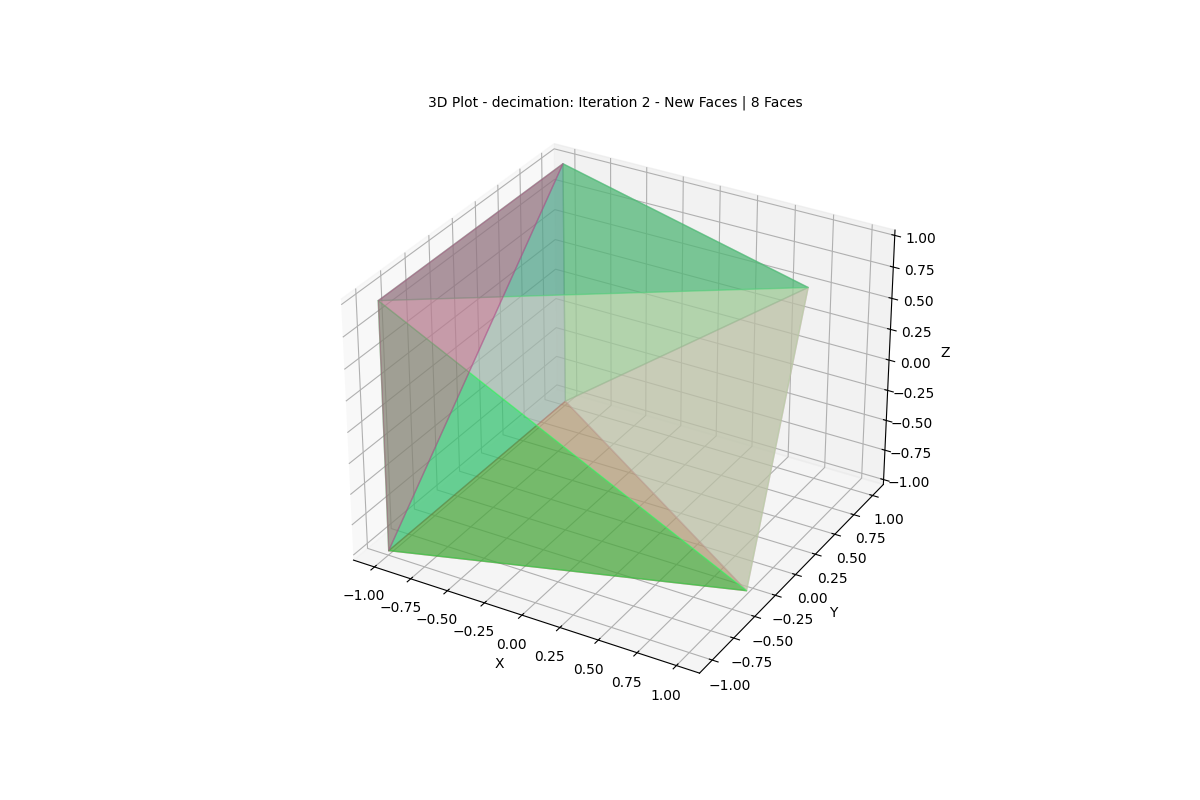
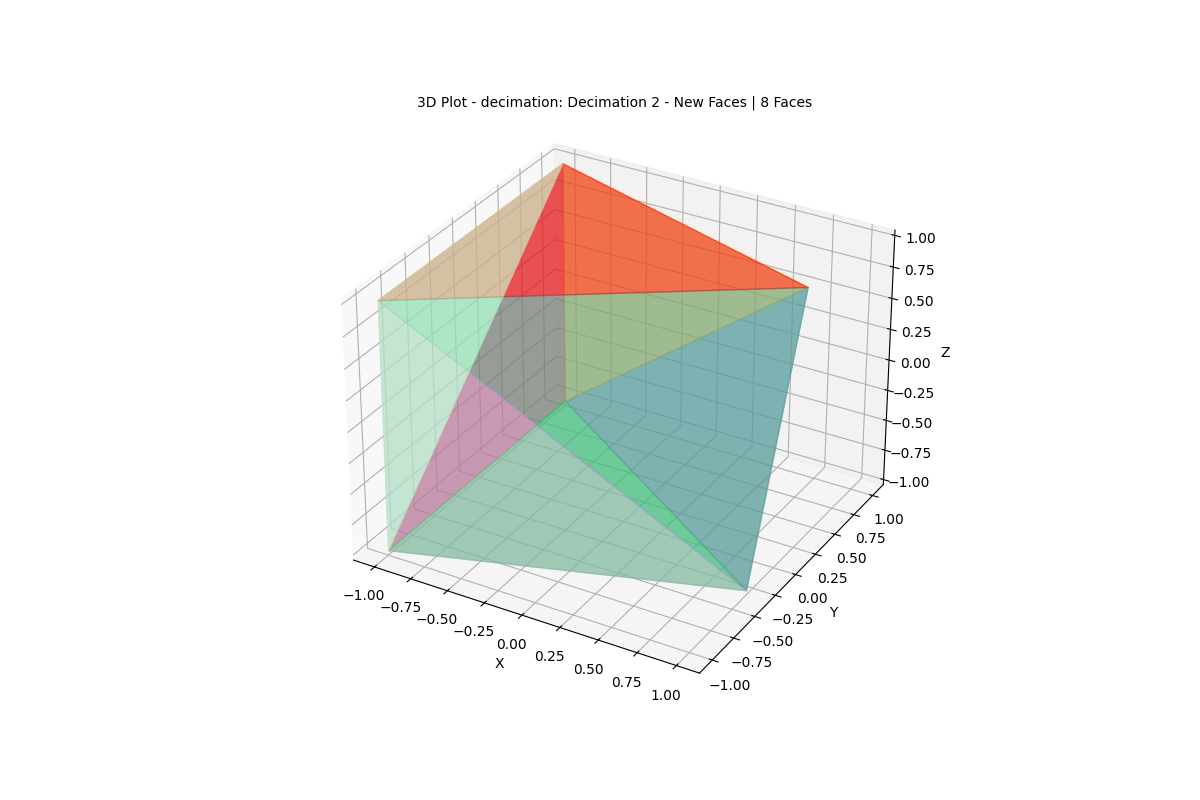
Refactored code and added extra credit item

Changed region(s): [[0.3083, 0.1875, 0.6783, 0.75], [0.3392, 0.125, 0.6783, 0.1562]]

diff --git a/src/remesh.py b/src/remesh.py
@@ -26,7 +26,6 @@ class Remesh:
     """
 
     __LOG_PREFIX__ = "Remesh()"
-    __VERBOSE__ = False
     __PLOT_EVERY__ = 1
     __EPSILON__ = 1e-13
     __PLOT_DIRECTORY__ = "../assets/plot/assignment1"
@@ -45,7 +44,7 @@ class Remesh:
         self.vertices = vertices
         self.faces = faces
 
-    def loop_subdivision(self, iterations: int = 1) -> Tuple[np.ndarray, np.ndarray]:
+    def loop_subdivision(self, iterations: int = 1, fixed: bool = False, verbose: bool = True) -> Tuple[np.ndarray, np.ndarray]:
         """
         Apply Loop subdivision to the input mesh for the specified number of iterations.
         Loop subdivision:
@@ -54,18 +53,20 @@ class Remesh:
         and apprxoimating thier positions to get a smoother surface.
         Input parameters:
             - iterations: number of iterations
+            - fixed: boolean indicating whether to keep the original vertices of the mesh fixed during mesh operations
+            - verbose: boolean indicating whether to make verbose
         Output:
             - vertices and faces after subdivision
         """
         logger.info(
             f"{self.__LOG_PREFIX__}: Applying Loop subdivision to the input mesh")
         new_vertices, new_faces = self._loop_subdivision(
-            vertices=self.vertices, faces=self.faces, iterations=iterations)
+            vertices=self.vertices, faces=self.faces, iterations=iterations, fixed=fixed, verbose=verbose)
         logger.info(
             f"{self.__LOG_PREFIX__}: Loop subdivision applied successfully")
         return new_vertices, new_faces
 
-    def decimation(self, faces: int = 3) -> Tuple[np.ndarray, np.ndarray]:
+    def decimation(self, faces: int = 3, fixed: bool = False, verbose: bool = True) -> Tuple[np.ndarray, np.ndarray]:
         """
         Apply decimation to the input mesh for the specified number of faces.
         Decimation:
@@ -74,13 +75,15 @@ class Remesh:
         Decimation is the process of reducing the number of faces in a mesh.
         Input parameters:
             - faces: number of faces
+            - fixed: boolean indicating whether to keep the original vertices of the mesh fixed during mesh operations
+            - verbose: boolean indicating whether to make verbose
         Output:
             - vertices and faces after decimation
         """
         logger.info(
             f"{self.__LOG_PREFIX__}: Applying decimation to the input mesh")
         new_vertices, new_faces = self._decimation(
-            vertices=self.vertices, faces=self.faces, reduce_faces_to=faces)
+            vertices=self.vertices, faces=self.faces, reduce_faces_to=faces, fixed=fixed, verbose=verbose)
         logger.info(f"{self.__LOG_PREFIX__}: Decimation applied successfully")
         return new_vertices, new_faces
 
@@ -393,6 +396,7 @@ class Remesh:
         incident_matrix, vertices_idx, k = get_incident_matrix(edges)
         # 2. Calculate beta
         # Formula: beta = (1/k) * (5/8 - (3/8 + 1/4 * cos(2 * pi / k)) ** 2)
+        k = np.maximum(k, Remesh.__EPSILON__) # to avoid division by zero, just in case
         beta = (1/k) * ((5/8) - ((3/8) + (1/4) * np.cos(2 * np.pi / k)) ** 2)
         # 3. Get neighbors of the vertices
         k_neighbors = incident_matrix * vertices_idx
@@ -466,7 +470,7 @@ class Remesh:
         return new_face
 
     @staticmethod
-    def _loop_subdivision(vertices: np.ndarray, faces: np.ndarray, iterations: int = 1) -> Tuple[np.ndarray, np.ndarray]:
+    def _loop_subdivision(vertices: np.ndarray, faces: np.ndarray, iterations: int = 1, fixed: bool = False, verbose: bool = True) -> Tuple[np.ndarray, np.ndarray]:
         """
         Driver code for implementing Loop Subdivision: apply Loop subdivision to the input mesh.
         The algorithm is implemented using matrix operations to improve performance by avoiding loops.
@@ -480,6 +484,8 @@ class Remesh:
             - vertices: numpy ndarray of vertices
             - faces: numpy ndarray of faces, note that the faces should be triangulated
             - iterations: number of iterations, default is 1
+            - fixed: boolean indicating whether to keep the original vertices of the mesh fixed during mesh operations
+            - verbose: boolean indicating whether to make verbose
         Output:
             - vertices and faces after subdivision
         """
@@ -521,7 +527,7 @@ class Remesh:
             # Note the order - required for the face generation
             new_vertices = np.vstack((even_vertices, odd_vertices))
             # Plot for visualization
-            if Remesh.__VERBOSE__ and run % Remesh.__PLOT_EVERY__ == 0:
+            if verbose and run % Remesh.__PLOT_EVERY__ == 0:
                 Remesh._plot(vertices, unique_edges, odd_vertices,
                              title=f"Loop Subdivision: Iteration {run+1} - Odd Vertices")
                 Remesh._plot(vertices, unique_edges, even_vertices,
@@ -764,7 +770,7 @@ class Remesh:
         return new_vertices, new_faces
 
     @staticmethod
-    def _decimation(vertices: np.ndarray, faces: np.ndarray, reduce_faces_to: int = 3) -> Tuple[np.ndarray, np.ndarray]:
+    def _decimation(vertices: np.ndarray, faces: np.ndarray, reduce_faces_to: int = 3, fixed: bool = False, verbose: bool = True) -> Tuple[np.ndarray, np.ndarray]:
         """
         Driver code for implementing decimation: apply decimation to the input mesh.
         The algorithm is implemented using matrix operations to improve performance by avoiding loops.
@@ -784,6 +790,8 @@ class Remesh:
             - vertices: numpy ndarray of vertices
             - faces: numpy ndarray of faces, note that the faces should be triangulated
             - reduce_faces_to: number of faces to reduce to, default is 3
+            - fixed: boolean indicating whether to keep the original vertices of the mesh fixed during mesh operations
+            - verbose: boolean indicating whether to make verbose
         Output:
             - vertices and faces after decimation
         """
@@ -823,7 +831,7 @@ class Remesh:
         new_vertices, new_faces = vertices.copy(), faces.copy()
         while len(faces_copy) > reduce_faces_to:
             logger.info(
-                f"{Remesh.__LOG_PREFIX__}: Applying Decimation algorithm to the input mesh: Iteration {ctr+1} | {len(new_vertices)} Vertices | {len(new_faces)} Faces")
+                f"{Remesh.__LOG_PREFIX__}: Applying Decimation algorithm to the input mesh: Decimation {ctr+1} | {len(new_vertices)} Vertices | {len(new_faces)} Faces")
             # Validate triangle mesh
             if not validate_triangulated_mesh(edges_copy):
                 logger.error(
@@ -842,11 +850,12 @@ class Remesh:
             # Skip the deleted vertices
             if v1_idx in deleted_vertices or v2_idx in deleted_vertices:
                 continue
-            # Update vertices
-            vertices_copy[v1_idx-1] = v_dash # since, v1_idx is one indexed
-            # Update Q matrix
-            Q1, Q2 = q_matrix_copy[v1_idx-1], q_matrix_copy[v2_idx-1] # since, v1_idx, v2_idx are one indexed
-            q_matrix_copy[v1_idx-1] = Q1 + Q2
+            if not fixed:
+                # Update vertices
+                vertices_copy[v1_idx-1] = v_dash # since, v1_idx is one indexed
+                # Update Q matrix
+                Q1, Q2 = q_matrix_copy[v1_idx-1], q_matrix_copy[v2_idx-1] # since, v1_idx, v2_idx are one indexed
+                q_matrix_copy[v1_idx-1] = Q1 + Q2
             # Add the deleted vertex to the set
             deleted_vertices.add(v2_idx) # note that, v2_idx is one indexed
             # Update faces and edges
@@ -863,13 +872,13 @@ class Remesh:
             optimal_contractions = Remesh._get_optimal_contractions(
                 vertices_copy, v1_valid_pairs, q_matrix_copy, heap=optimal_contractions)
             # Plot for visualization
-            if Remesh.__VERBOSE__ and ctr % Remesh.__PLOT_EVERY__ == 0:
+            if verbose and ctr % Remesh.__PLOT_EVERY__ == 0:
                 Remesh._plot(vertices, unique_edges, vertices_copy, p_alpha=0.15,
-                             title=f"Decimation: Iteration {ctr+1} - Decimated vertices")
+                             title=f"Decimation: Decimation {ctr+1} - Decimated vertices")
                 Remesh._plot_faces(
-                    vertices, faces, title=f"3D Plot - Original Faces at the start of this iteration | {len(faces)} Faces")
+                    vertices, faces, title=f"3D Plot - Original Faces at the start of this decimation | {len(faces)} Faces")
                 Remesh._plot_faces(
-                    vertices_copy, faces_copy, title=f"3D Plot - decimation: Iteration {ctr+1} - New Faces | {len(faces_copy)} Faces", save=True, file_name=f"decimation_{ctr+1}")
+                    vertices_copy, faces_copy, title=f"3D Plot - decimation: Decimation {ctr+1} - New Faces | {len(faces_copy)} Faces", save=True, file_name=f"decimation_{ctr+1}")
             # Update the face if there is only one face for visualization
             # Trimesh workflow
             if len(faces_copy) == 1:

diff --git a/assignments/assignment1.py b/assignments/assignment1.py
@@ -16,28 +16,32 @@ import src
 import trimesh
 
 
-def subdivision_loop(mesh, iterations: int = 1, output_dir: str = '../assets/results/assignment1'):
+def subdivision_loop(mesh, iterations: int = 1, fixed: bool = False, verbose: bool = True, output_dir: str = '../assets/results/assignment1'):
     """
     Apply Loop subdivision to the input mesh for the specified number of iterations.
     :param mesh: input mesh
     :param iterations: number of iterations
+    :param fixed: boolean indicating whether to keep the original vertices of the mesh fixed during mesh operations
+    :param verbose: boolean indicating whether to make verbose
     :param output_dir: path to the output directory in which .obj file will be stored
     :return: mesh after subdivision
     """
-    new_vertices, new_faces = mesh.loop_subdivision(iterations=iterations)
+    new_vertices, new_faces = mesh.loop_subdivision(iterations=iterations, fixed=fixed, verbose=verbose)
     mesh.save(new_vertices, new_faces, os.path.join(output_dir, 'cube_subdivided.obj'))
     return mesh
 
 
-def simplify_quadric_error(mesh, face_count: int = 1, output_dir: str = '../assets/results/assignment1'):
+def simplify_quadric_error(mesh, face_count: int = 1, fixed: bool = False, verbose: bool = True, output_dir: str = '../assets/results/assignment1'):
     """
     Apply quadratic error mesh decimation to the input mesh until the target face count is reached.
     :param mesh: input mesh
     :param face_count: number of faces desired in the resulting mesh.
+    :param fixed: boolean indicating whether to keep the original vertices of the mesh fixed during mesh operations
+    :param verbose: boolean indicating whether to make verbose
     :param output_dir: path to the output directory in which .obj file will be stored
     :return: mesh after decimation
     """
-    new_vertices, new_faces = mesh.decimation(faces=face_count)
+    new_vertices, new_faces = mesh.decimation(faces=face_count, fixed=fixed, verbose=verbose)
     mesh.save(new_vertices, new_faces, os.path.join(output_dir, 'cube_decimated.obj'))
     return mesh
 
@@ -48,7 +52,9 @@ if __name__ == '__main__':
     parser.add_argument("-i", "--obj_file", type=str, default='../assets/cube.obj', help="Path to the .obj file")
     parser.add_argument("-o", "--output_dir", type=str, default='../assets/results/assignment1', help="Path to the output directory in which .obj file will be stored")
     parser.add_argument("-s", "--subdivision", type=int, default=4, help="Number of iterations for Loop subdivision")
-    parser.add_argument("-d", "--decimation", type=int, default=7, help="Number of faces desired in the resulting mesh after decimation")
+    parser.add_argument("-d", "--decimation", type=int, default=5, help="Number of faces desired in the resulting mesh after decimation")
+    parser.add_argument("-f", "--fixed", type=src.str2bool, default='n', help="Keep the original vertices of the mesh fixed during mesh operations")
+    parser.add_argument("-v", "--verbose", type=src.str2bool, default='y', help="Make verbose")
     args = parser.parse_args()
     
     # Global variables
@@ -56,6 +62,8 @@ if __name__ == '__main__':
     OUTPUT_DIR = args.output_dir
     SUBDIVISION = args.subdivision
     DECIMATION = args.decimation
+    FIXED = args.fixed
+    VERBOSE = args.verbose
 
     # Make the output directory if it does not exist
     os.makedirs(OUTPUT_DIR, exist_ok=True)
@@ -83,8 +91,8 @@ if __name__ == '__main__':
 
     try:
         mesh = src.load_3d_file(OBJ_FILE)
-        _ = subdivision_loop(mesh, iterations=SUBDIVISION, output_dir=OUTPUT_DIR)
-        _ = simplify_quadric_error(mesh, face_count=DECIMATION, output_dir=OUTPUT_DIR)
+        _ = subdivision_loop(mesh, iterations=SUBDIVISION, fixed=FIXED, verbose=VERBOSE, output_dir=OUTPUT_DIR)
+        _ = simplify_quadric_error(mesh, face_count=DECIMATION, fixed=FIXED, verbose=VERBOSE, output_dir=OUTPUT_DIR)
     except Exception as e:
         raise e
     

diff --git a/src/base/ds_mesh.py b/src/base/ds_mesh.py
@@ -148,33 +148,37 @@ class NpMesh:
             logger.error(f"{self.__LOG_PREFIX__}: Error while building the mesh")
             raise e
         
-    def loop_subdivision(self, iterations: int = 1) -> Tuple[np.ndarray, np.ndarray]:
+    def loop_subdivision(self, iterations: int = 1, fixed: bool = False, verbose: bool = True) -> Tuple[np.ndarray, np.ndarray]:
         """
             Apply Loop subdivision to the input mesh for the specified number of iterations.
             Input parameters:
                 - iterations: number of iterations
+                - fixed: boolean indicating whether to keep the original vertices of the mesh fixed during mesh operations
+                - verbose: boolean indicating whether to make verbose
             Output:
                 - vertices and faces after subdivision
         """
         try:
             logger.info(f"{self.__LOG_PREFIX__}: Applying Loop subdivision to the input mesh")
-            new_vertices, new_faces = self.remesh.loop_subdivision(iterations=iterations)
+            new_vertices, new_faces = self.remesh.loop_subdivision(iterations=iterations, fixed=fixed, verbose=verbose)
             return new_vertices, new_faces
         except Exception as e:
             logger.error(f"{self.__LOG_PREFIX__}: Error while applying Loop subdivision to the input mesh")
             raise e
     
-    def decimation(self, faces: int = 1) -> Tuple[np.ndarray, np.ndarray]:
+    def decimation(self, faces: int = 1, fixed: bool = False, verbose: bool = True) -> Tuple[np.ndarray, np.ndarray]:
         """
             Apply decimation to the input mesh until the target face count is reached.
             Input parameters:
                 - faces: number of faces desired in the resulting mesh.
+                - fixed: boolean indicating whether to keep the original vertices of the mesh fixed during mesh operations
+                - verbose: boolean indicating whether to make verbose
             Output:
                 - vertices and faces after decimation
         """
         try:
             logger.info(f"{self.__LOG_PREFIX__}: Applying decimation to the input mesh")
-            new_vertices, new_faces = self.remesh.decimation(faces=faces)
+            new_vertices, new_faces = self.remesh.decimation(faces=faces, fixed=fixed, verbose=verbose)
             return new_vertices, new_faces
         except Exception as e:
             logger.error(f"{self.__LOG_PREFIX__}: Error while applying decimation to the input mesh")

diff --git a/src/__init__.py b/src/__init__.py
@@ -5,6 +5,7 @@
 # Import the required modules
 import os
 import logging
+from .utils.utils import str2bool
 from .utils.logger import __setup_logger__
 from .utils.load import load_3d_file
 
@@ -16,5 +17,6 @@ if not os.path.exists(__LOGGING_DIR__):
 __setup_logger__(log_dir=__LOGGING_DIR__, level=__LOGGING_LEVEL__)
 
 __all__ = [
+    "str2bool",
     "load_3d_file"
 ]

diff --git a/src/utils/utils.py b/src/utils/utils.py
@@ -7,6 +7,12 @@ import numpy as np
 from typing import Tuple
 
 
+def str2bool(v) -> bool:
+    '''
+        Convert string to boolean, basically used by the cmd parser.
+    '''
+    return v.lower() in ("yes", "Yes", "YES", "y", "true", "True", "TRUE", "t", "1")
+
 def intify(item: list) -> list:
     """
     Convert a list of strings to a list of integers.
